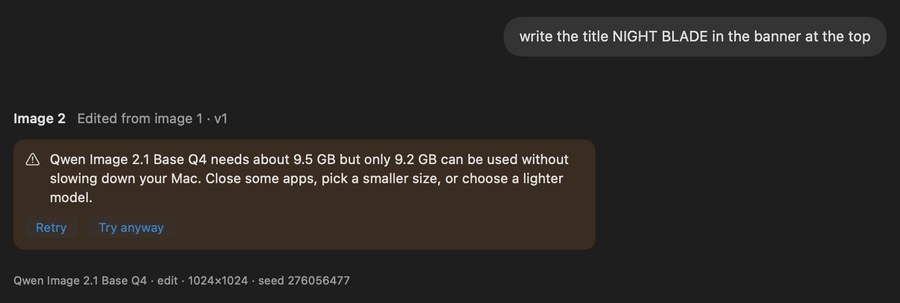
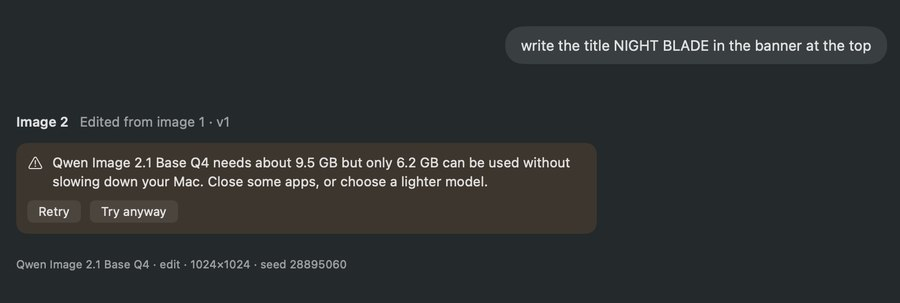
Release v0.1.0-beta5: notes, version and retaken screenshots
- Release notes for beta5 (Layout, agent services, Klein 9B, Auto by
  strengths and memory fit, Stop frees memory, resumable downloads,
  models in dMLX's folder and Uninstall, attaching fixes, Quit and setup
  sheet fixes); version 0.1.0b5.
- Screenshots retaken: the memory refusal with the new advice, and
  Settings → Models with the new layout and decimal GB sizes. The README
  text and the homepage gauge now match (6.2 GB free, short by 3.3 GB).

diff --git a/docs/RELEASE_NOTES.md b/docs/RELEASE_NOTES.md
@@ -1,3 +1,46 @@
+# dMLX v0.1.0-beta5
+
+Layout for posters and banners, the agent anywhere you like, and a long list of fixes.
+
+## Highlights
+
+- **Layout.** MOSS Image, FIBO 2 and Ideogram 4 can be added from Settings → Models. The agent writes each
+  model's detailed caption for you (you never see JSON). In **Crop / Draw → Layout** you draw, move and
+  describe boxes, then **Redraw with layout** puts the title, date or logo where you placed it.
+- **Choose where the agent runs.** At setup, or later from **dMLX → Choose Models…**: on this Mac, or
+  Claude, ChatGPT, Ollama or any OpenAI-compatible service. Keys stay in the Keychain.
+- **FLUX.2 Klein 9B** as a built-in model, for new images and edits with up to 3 images.
+- **Auto picks by strengths.** Photos go to Z-Image and words in images to Qwen Image when they are
+  downloaded, and Auto never picks a model that will not fit in memory when another one would. The hint
+  in the message box names the model that will run and about how much memory it needs.
+- **Stop frees memory.** A stopped image frees the model's memory, and the next image no longer runs
+  slowly because the old model is still loaded.
+- **Downloads you can stop and resume.** Cancel a download, quit, and pick it up later from where it
+  stopped. Each file is checked when it finishes, leftover files are cleaned up, and Qwen Image 2.1
+  downloads all its parts up front. Sizes are shown in GB.
+- **Models in dMLX's own folder**, and **Uninstall dMLX…** removes every model, chat and setting.
+- **Attaching images.** iPhone photos (HEIC) attach, files dropped on the message box attach, a message
+  sent while an image uploads waits for it, and files that are not images get a clear message.
+- **Fixes.** Quit works while a setup sheet is open, and asks first during a download. The setup sheet
+  fits above the Dock. No more clipped or hidden controls in short windows. Fewer steps for FIBO 2 and
+  Ideogram 4 (about 3 minutes faster per poster). An image no longer stops while the Mac is only reading
+  apps back from swap.
+
+## Requirements
+
+Apple Silicon, macOS 15+, 16 GB memory or more. About 7–11 GB of disk for the image model and the agent.
+
+## Install
+
+Open the `.dmg` and drag dMLX onto the Applications folder (a `.zip` of the same app is also attached), then
+right-click → Open the first time (beta builds are not notarized). The first-run setup downloads the models.
+
+## Known issues
+
+See [Known issues](KNOWN_ISSUES.md).
+
+---
+
 # dMLX v0.1.0-beta4
 
 A guide for new users.

diff --git a/README.md b/README.md
@@ -196,9 +196,9 @@ You can attach a maximum of 3 images with the paper clip or with drag and drop. 
 
 ### Auto selects the model, and the engine first does a memory check
 
-For a title in the image, the agent selected Qwen Image 2.1, because this model is the best at text in images. This model needed 9.5 GB, but only 9.2 GB was available without slowing down the Mac. Thus the engine refused the job. **Try anyway** runs the job in the mode that uses the least memory. If the Mac becomes slow, the engine stops the job.
+For a title in the image, the agent selected Qwen Image 2.1, because this model is the best at text in images. This model needed 9.5 GB, but only 6.2 GB was available without slowing down the Mac. Thus the engine refused the job. **Try anyway** runs the job in the mode that uses the least memory. If the Mac becomes slow, the engine stops the job.
 
-<img src="docs/screenshots/memory-check.jpg" width="640" alt="The message 'write the title NIGHT BLADE in the banner at the top' gives Image 2 with Qwen Image 2.1 Base Q4 and this text: 'needs about 9.5 GB but only 9.2 GB can be used without slowing down your Mac'. Retry and Try anyway show below the text.">
+<img src="docs/screenshots/memory-check.jpg" width="640" alt="The message 'write the title NIGHT BLADE in the banner at the top' gives Image 2 with Qwen Image 2.1 Base Q4 and this text: 'needs about 9.5 GB but only 6.2 GB can be used without slowing down your Mac. Close some apps, or choose a lighter model.' Retry and Try anyway show below the text.">
 
 ### Add models
 
@@ -210,7 +210,7 @@ Use the search field to find community versions of the supported families. You c
 
 You can see the installed models, remove models, and set the default model. If you set Auto, the agent selects the model.
 
-<img src="docs/screenshots/settings-models.jpg" width="480" alt="Settings, Models. FLUX.2 Klein 4B, Qwen Image 2.1 Base Q4 and Z-Image Turbo are downloaded, each with Remove. The default model is Auto. The window also shows Add Model.">
+<img src="docs/screenshots/settings-models.jpg" width="480" alt="Settings, Models. New images and Edits are both set to Auto (FLUX.2 Klein 4B). Under Your Models, with Add Model: FLUX.2 Klein 4B (4.6 GB), Qwen Image 2.1 Base (7.6 GB) and Z-Image Turbo (5.9 GB) are downloaded, each with Remove.">
 
 ## The agent
 
